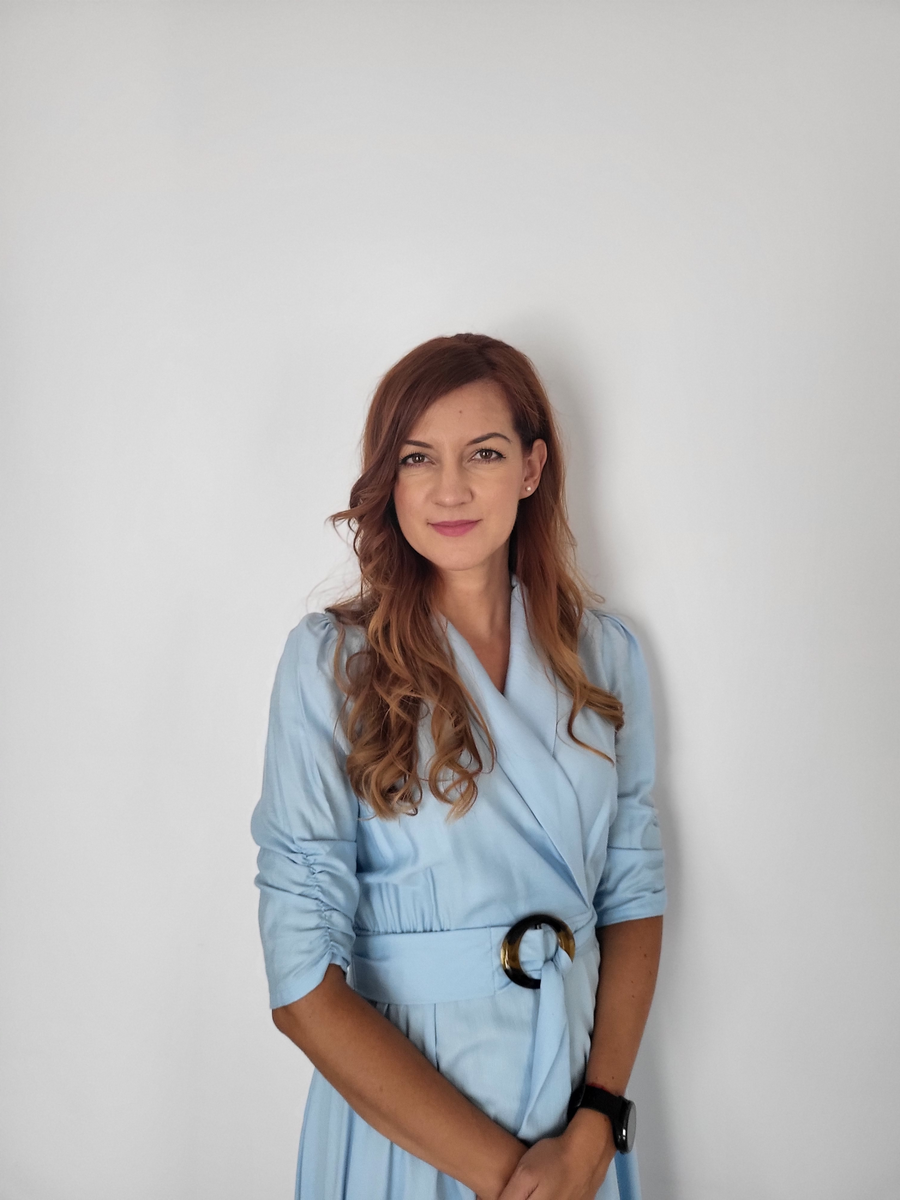
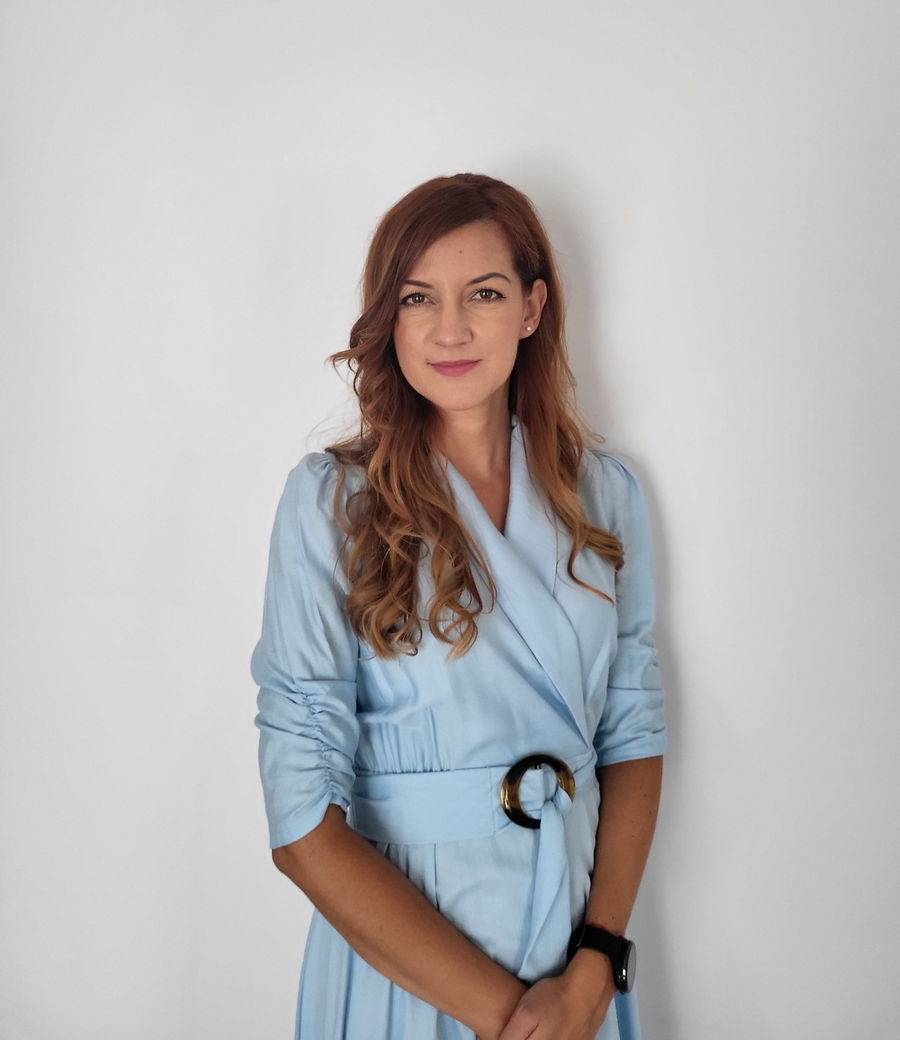
About: rebuild to match Home's visual system, per the earlier audit
Palette/typography/column: local page-scoped --background/--card/
--primary/--muted-foreground override (#FBF6EE/#FDF9F2/#2F5D3F/#7A6559)
and the same PAGE_COLUMN wrapper as Home, both duplicated as local
consts (not imported) since Home.tsx was not to be touched -- verified
the page's content now shares Home's exact left edge at 1440px (152px).
Body copy switched from font-light/prose to plain font-normal text,
matching Home's paragraphs. Section H2s unified to text-2xl md:text-4xl
(Home's scale); H1 set to text-3xl md:text-5xl, larger than in-page H2s
to keep real heading hierarchy. Added a "DESPRE MINE" eyebrow above H1,
matching Home's eyebrow pattern.

Structure: dropped "De ce Diet4Life Concept" as a separate section --
it restated the same "understand why, don't just follow a plan" idea
already in "Ce am învățat din practică". Consolidated that idea there
instead, with an added closing line on building lasting habits (was
previously implicit). New order: Hero -> Ce am învățat din practică ->
Studii/Implicare/Experiență clinică -> Filozofia mea -> CTA.

Photo: portrait.png cropped in place (pure pixel crop, no regeneration,
no filters, face/person untouched) -- removed 160px of empty wall above
the head (900x1200 -> 900x1040), so the person reads as more present in
the frame. Container swapped from rounded-2xl + shadow-2xl to rounded-2xl
+ a subtle border only, matching Home's discreet image treatment instead
[…]

Changed region(s): [[0.28, 0.1538, 0.7778, 0.9846]]

diff --git a/src/pages/About.tsx b/src/pages/About.tsx
@@ -1,68 +1,103 @@
 import { useLanguage } from "@/contexts/LanguageContext";
 import { motion } from "framer-motion";
 import { Link } from "wouter";
-import { GraduationCap, Award, Heart, Lightbulb, ArrowRight } from "lucide-react";
-import { Card, CardContent } from "@/components/ui/card";
-import { Button } from "@/components/ui/button";
+import { ArrowRight } from "lucide-react";
+
+// Same outer column as Home's own PAGE_COLUMN (max-w-[1200px] + matching
+// padding) -- duplicated here rather than imported, since importing it
+// would require adding an export to Home.tsx, and this round's brief is
+// explicit that Home must not be touched. Keep the two literal strings in
+// sync by hand if Home's ever changes.
+const PAGE_COLUMN = "max-w-[1200px] mx-auto px-[18px] min-[380px]:px-5 lg:px-8";
 
 export default function About() {
   const { language } = useLanguage();
   const ro = language === "ro";
 
   return (
-    <div className="py-24 bg-background">
-      <div className="container mx-auto px-4">
-        <div className="flex flex-col lg:flex-row items-center gap-16 mb-20">
-          <motion.div
-            initial={{ opacity: 0, x: -30 }}
-            animate={{ opacity: 1, x: 0 }}
-            transition={{ duration: 0.8 }}
-            className="w-full lg:w-5/12"
-          >
-            <div className="relative aspect-[3/4] rounded-2xl overflow-hidden shadow-2xl">
-              <img
-                src="/images/portrait.png"
-                alt="Camelia Amuza"
-                className="w-full h-full object-cover"
-              />
-            </div>
-          </motion.div>
+    <div
+      className="flex flex-col"
+      style={{
+        // Same page-scoped palette override as Home.tsx (kept in sync by
+        // hand for the same reason as PAGE_COLUMN above) -- #FBF6EE /
+        // #FDF9F2 / #2F5D3F / #7A6559, never touching the shared :root
+        // tokens so other pages are unaffected.
+        "--background": "37 62% 96%", // #FBF6EE
+        "--card": "38 73% 97%", // #FDF9F2
+        "--primary": "141 33% 27%", // #2F5D3F
+        "--muted-foreground": "22 16% 41%", // #7A6559
+      } as any}
+    >
+      {/* A. Hero -- cine sunt */}
+      <section className="pt-14 pb-14 md:pt-20 md:pb-20 bg-background">
+        <div className={PAGE_COLUMN}>
+          <div className="flex flex-col lg:flex-row items-start lg:items-center gap-8 lg:gap-16">
+            <motion.div
+              initial={{ opacity: 0, x: -30 }}
+              animate={{ opacity: 1, x: 0 }}
+              transition={{ duration: 0.8 }}
+              className="w-full lg:w-5/12"
+            >
+              <div className="relative aspect-[900/1040] max-w-[320px] mx-auto lg:max-w-none lg:mx-0 rounded-2xl overflow-hidden border border-border">
+                <img
+                  src="/images/portrait.png"
+                  alt="Camelia Amuza"
+                  className="w-full h-full object-cover"
+                />
+              </div>
+            </motion.div>
 
-          <motion.div
-            initial={{ opacity: 0, x: 30 }}
-            animate={{ opacity: 1, x: 0 }}
-            transition={{ duration: 0.8, delay: 0.2 }}
-            className="w-full lg:w-7/12"
-          >
-            <h1 className="text-4xl md:text-5xl font-serif font-bold text-foreground mb-4">
-              Camelia Amuza
-            </h1>
-            <p className="text-xl text-primary font-medium mb-8">
-              {ro ? "Nutriționist-dietetician autorizat" : "Licensed Dietitian-Nutritionist"}
-            </p>
+            <motion.div
+              initial={{ opacity: 0, x: 30 }}
+              animate={{ opacity: 1, x: 0 }}
+              transition={{ duration: 0.8, delay: 0.15 }}
+              className="w-full lg:w-7/12"
+            >
+              <span className="inline-flex items-center gap-2 text-xs font-semibold tracking-[0.16em] uppercase text-primary mb-4">
+                <span className="inline-block w-4 h-px bg-primary" aria-hidden="true" />
+                {ro ? "Despre mine" : "About me"}
+              </span>
 
-            <div className="prose prose-lg prose-slate text-muted-foreground font-light leading-relaxed">
-              <p>
-                {ro
-                  ? "În ultimii ani am lucrat în special cu persoane care se confruntă cu obezitatea — o zonă a nutriției care cere mult mai mult decât o listă de alimente permise și interzise."
-                  : "In recent years I've worked especially with people facing obesity — an area of nutrition that requires much more than a list of allowed and forbidden foods."}
+              <h1 className="text-3xl md:text-5xl font-serif font-bold text-foreground mb-2 text-balance">
+                Camelia Amuza
+              </h1>
+              <p className="text-lg md:text-xl font-semibold text-primary mb-5">
+                {ro ? "Nutriționist-dietetician autorizat" : "Licensed Dietitian-Nutritionist"}
               </p>
-            </div>
-          </motion.div>
-        </div>
 
-        <div className="max-w-4xl mx-auto space-y-16">
-          {/* Ce am învățat din practică */}
+              <div className="text-muted-foreground leading-relaxed text-base md:text-lg space-y-4 max-w-[560px]">
+                <p>
+                  {ro
+                    ? "Lucrez în principal cu persoane care se confruntă cu obezitatea — o zonă a nutriției care cere mult mai mult decât o listă de alimente permise și interzise."
+                    : "I work primarily with people facing obesity — an area of nutrition that requires much more than a list of allowed and forbidden foods."}
+                </p>
+                <p>
+                  {ro
+                    ? "Am experiență în managementul nutrițional al pacienților bariatrici din 2021, cu monitorizarea și adaptarea alimentației în diferitele etape postoperatorii."
+                    : "I have experience in the nutritional management of bariatric patients since 2021, monitoring and adjusting their diet across the different postoperative stages."}
+                </p>
+              </div>
+            </motion.div>
+          </div>
+        </div>
+      </section>
+
+      <div className={PAGE_COLUMN}>
+        <div className="max-w-3xl mx-auto space-y-14 md:space-y-16 pb-16 md:pb-20">
+          {/* B. Ce am învățat din practică / cum lucrez -- consolidated,
+              the old separate "De ce Diet4Life Concept" section is folded
+              in here since it restated the same "understand why, not just
+              follow a plan" idea in different words. */}
           <motion.section
             initial={{ opacity: 0, y: 20 }}
             whileInView={{ opacity: 1, y: 0 }}
             viewport={{ once: true }}
             transition={{ duration: 0.5 }}
           >
-            <h2 className="text-2xl md:text-3xl font-serif font-bold text-foreground mb-5">
+            <h2 className="text-2xl md:text-4xl font-serif font-bold text-foreground leading-tight md:leading-normal mb-5 text-balance">
               {ro ? "Ce am învățat din practică" : "What I've learned in practice"}
             </h2>
-            <div className="text-muted-foreground font-light leading-relaxed text-lg space-y-4">
+            <div className="text-muted-foreground leading-relaxed text-base md:text-lg space-y-4">
               <p>
                 {ro
                   ? "Oamenii nu au nevoie doar să știe ce au voie să mănânce. Au nevoie să înțeleagă de ce fac anumite alegeri, cum își pot organiza mesele și, mai ales, cum pot adapta recomandările la viața lor reală — nu la una ideală, care există doar în teorie."
@@ -70,26 +105,24 @@ export default function About() {
               </p>
               <p>
                 {ro
-                  ? "De aceea îmi place să explic nutriția simplu, fără reguli inutile și fără să complic lucrurile mai mult decât e nevoie. Informația trebuie să fie corectă din punct de vedere medical, dar și ușor de aplicat, altfel rămâne doar teorie pe hârtie."
-                  : "That's why I like to explain nutrition simply, without unnecessary rules and without overcomplicating things. Information has to be medically accurate, but also easy to apply — otherwise it stays theory on paper."}
+                  ? "De aceea îmi place să explic nutriția simplu, fără reguli inutile și fără să complic lucrurile mai mult decât e nevoie. Informația trebuie să fie corectă din punct de vedere medical, dar și ușor de aplicat, altfel rămâne doar teorie pe hârtie. Scopul este să construim împreună obiceiuri care chiar rezistă în timp, nu soluții rapide care dispar odată cu motivația."
+                  : "That's why I like to explain nutrition simply, without unnecessary rules and without overcomplicating things. Information has to be medically accurate, but also easy to apply — otherwise it stays theory on paper. The goal is to build habits together that actually last, not quick fixes that disappear along with motivation."}
               </p>
             </div>
           </motion.section>
 
-          {/* Studii și formare / Implicare profesională */}
+          {/* C. Studii și implicare profesională -- editorial blocks, no
+              icon circles, no shadcn Card -- border-border + bg-card/60,
+              same family as Home's "Din răspunsuri" cards. */}
           <motion.div
-            className="grid md:grid-cols-2 gap-6"
             initial={{ opacity: 0, y: 20 }}
             whileInView={{ opacity: 1, y: 0 }}
             viewport={{ once: true }}
             transition={{ duration: 0.5 }}
           >
-            <Card className="border-border">
-              <CardContent className="p-7">
-                <div className="w-12 h-12 rounded-full bg-primary/10 flex items-center justify-center mb-5">
-                  <GraduationCap className="w-6 h-6 text-primary" />
-                </div>
-                <h3 className="font-serif font-bold text-xl text-foreground mb-4">
+            <div className="grid md:grid-cols-2 gap-6 mb-6">
+              <div className="rounded-2xl border border-border bg-card/60 p-6">
+                <h3 className="font-serif font-semibold text-xl text-foreground mb-4">
                   {ro ? "Studii și formare" : "Education & training"}
                 </h3>
                 <ul className="space-y-3 text-sm text-muted-foreground leading-relaxed">
@@ -125,15 +158,10 @@ export default function About() {
                       : "Ongoing training in psycho-nutrition, clinical oncology nutrition, and critical care nutrition"}
                   </li>
                 </ul>
-              </CardContent>
-            </Card>
+              </div>
 
-            <Card className="border-border">
-              <CardContent className="p-7">
-                <div className="w-12 h-12 rounded-full bg-primary/10 flex items-center justify-center mb-5">
-                  <Award className="w-6 h-6 text-primary" />
-                </div>
-                <h3 className="font-serif font-bold text-xl text-foreground mb-4">
+              <div className="rounded-2xl border border-border bg-card/60 p-6">
+                <h3 className="font-serif font-semibold text-xl text-foreground mb-4">
                   {ro ? "Implicare profesională" : "Professional involvement"}
                 </h3>
                 <ul className="space-y-2.5 text-sm text-muted-foreground leading-relaxed mb-4">
@@ -158,73 +186,59 @@ export default function About() {
                     ? "Fac parte din ESPEN pentru că recomandările pe care le găsești pe acest site pornesc chiar de la ghidurile acestei societăți — nu sunt doar opinii personale, ci informații verificate la nivel european."
                     : "I'm part of ESPEN because the recommendations you find on this site start from that society's own guidelines — not just personal opinions, but information verified at a European level."}
                 </p>
-              </CardContent>
-            </Card>
+              </div>
+            </div>
+
+            {/* Scannable credibility line -- same bariatric-experience fact
+                as the hero paragraph, verbatim, but here as a short,
+                stand-alone editorial highlight rather than prose. */}
+            <div className="rounded-2xl border border-border bg-card/60 p-6">
+              <h3 className="font-serif font-semibold text-xl text-foreground mb-2">
+                {ro ? "Experiență clinică" : "Clinical experience"}
+              </h3>
+              <p className="text-sm text-muted-foreground leading-relaxed">
+                {ro
+                  ? "Experiență în managementul nutrițional al pacienților bariatrici din 2021, cu monitorizarea și adaptarea alimentației în diferitele etape postoperatorii."
+                  : "Experience in the nutritional management of bariatric patients since 2021, monitoring and adjusting their diet across the different postoperative stages."}
+              </p>
+            </div>
           </motion.div>
 
-          {/* De ce Diet4Life Concept */}
+          {/* D. Filozofia mea -- kept distinct: sustainability/progress-not-
+              perfection, doesn't restate B's "understand why" idea. */}
           <motion.section
             initial={{ opacity: 0, y: 20 }}
             whileInView={{ opacity: 1, y: 0 }}
             viewport={{ once: true }}
             transition={{ duration: 0.5 }}
           >
-            <div className="flex items-start gap-4">
-              <div className="w-12 h-12 rounded-full bg-primary/10 flex items-center justify-center shrink-0">
-                <Heart className="w-6 h-6 text-primary" />
-              </div>
-              <div>
-                <h2 className="text-2xl md:text-3xl font-serif font-bold text-foreground mb-4">
-                  {ro ? "De ce Diet4Life Concept" : "Why Diet4Life Concept"}
-                </h2>
-                <p className="text-muted-foreground font-light leading-relaxed text-lg">
-                  {ro
-                    ? "Diet4Life Concept a pornit exact din această nevoie: să existe un loc în care informațiile despre nutriție să fie explicate clar, corect și practic, astfel încât oamenii să înțeleagă cu adevărat ce fac și de ce o fac — nu doar să urmeze un plan fără să-l priceapă."
-                    : "Diet4Life Concept started from exactly this need: a place where nutrition information is explained clearly, correctly, and practically, so people truly understand what they're doing and why — not just follow a plan without grasping it."}
-                </p>
-              </div>
-            </div>
+            <h2 className="text-2xl md:text-4xl font-serif font-bold text-foreground leading-tight md:leading-normal mb-5 text-balance">
+              {ro ? "Filozofia mea" : "My philosophy"}
+            </h2>
+            <p className="text-muted-foreground leading-relaxed text-base md:text-lg">
+              {ro
+                ? "Nu urmăresc alimentația perfectă. Mă interesează mult mai mult ca persoana din fața mea să ajungă la o variantă bună pentru sănătatea ei — una pe care o poate menține pe termen lung, nu doar câteva săptămâni."
+                : "I'm not chasing perfect eating. What matters far more to me is that the person in front of me reaches a version that's good for their health — one they can maintain long-term, not just for a few weeks."}
+            </p>
           </motion.section>
 
-          {/* Filozofia mea */}
-          <motion.section
-            initial={{ opacity: 0, y: 20 }}
-            whileInView={{ opacity: 1, y: 0 }}
-            viewport={{ once: true }}
-            transition={{ duration: 0.5 }}
-          >
-            <div className="flex items-start gap-4">
-              <div className="w-12 h-12 rounded-full bg-primary/10 flex items-center justify-center shrink-0">
-                <Lightbulb className="w-6 h-6 text-primary" />
-              </div>
-              <div>
-                <h2 className="text-2xl md:text-3xl font-serif font-bold text-foreground mb-4">
-                  {ro ? "Filozofia mea" : "My philosophy"}
-                </h2>
-                <p className="text-muted-foreground font-light leading-relaxed text-lg">
-                  {ro
-                    ? "Nu urmăresc alimentația perfectă. Mă interesează mult mai mult ca persoana din fața mea să ajungă la o variantă bună pentru sănătatea ei — una pe care o poate menține pe termen lung, nu doar câteva săptămâni."
-                    : "I'm not chasing perfect eating. What matters far more to me is that the person in front of me reaches a version that's good for their health — one they can maintain long-term, not just for a few weeks."}
-                </p>
-              </div>
-            </div>
-          </motion.section>
-
-          {/* CTA */}
+          {/* E. CTA final -- same hand-built CTA system as Home, not the
+              shadcn Button (which had different radius/height/weight). */}
           <motion.div
-            className="text-center pt-4"
+            className="text-center pt-2"
             initial={{ opacity: 0, y: 20 }}
             whileInView={{ opacity: 1, y: 0 }}
             viewport={{ once: true }}
             transition={{ duration: 0.5 }}
           >
-            <Button asChild size="lg" className="rounded-xl gap-2">
-              <Link href="/contact">
-                <Heart className="w-4 h-4" />
-                {ro ? "Hai să ne cunoaștem" : "Let's get to know each other"}
-                <ArrowRight className="w-4 h-4" />
-              </Link>
-            </Button>
+            <Link
+              href="/contact"
+              className="inline-flex w-full sm:w-auto items-center justify-center gap-2 h-12 lg:h-[52px] px-6 rounded-[13px] bg-primary hover:bg-primary/90 active:scale-[0.97] focus-visible:outline-none focus-visible:ring-2 focus-visible:ring-primary/50 text-primary-foreground font-semibold text-[15px] lg:text-base transition-all"
+              data-testid="button-about-cta"
+            >
+              {ro ? "Hai să ne cunoaștem" : "Let's get to know each other"}
+              <ArrowRight className="w-4 h-4" />
+            </Link>
           </motion.div>
         </div>
       </div>
